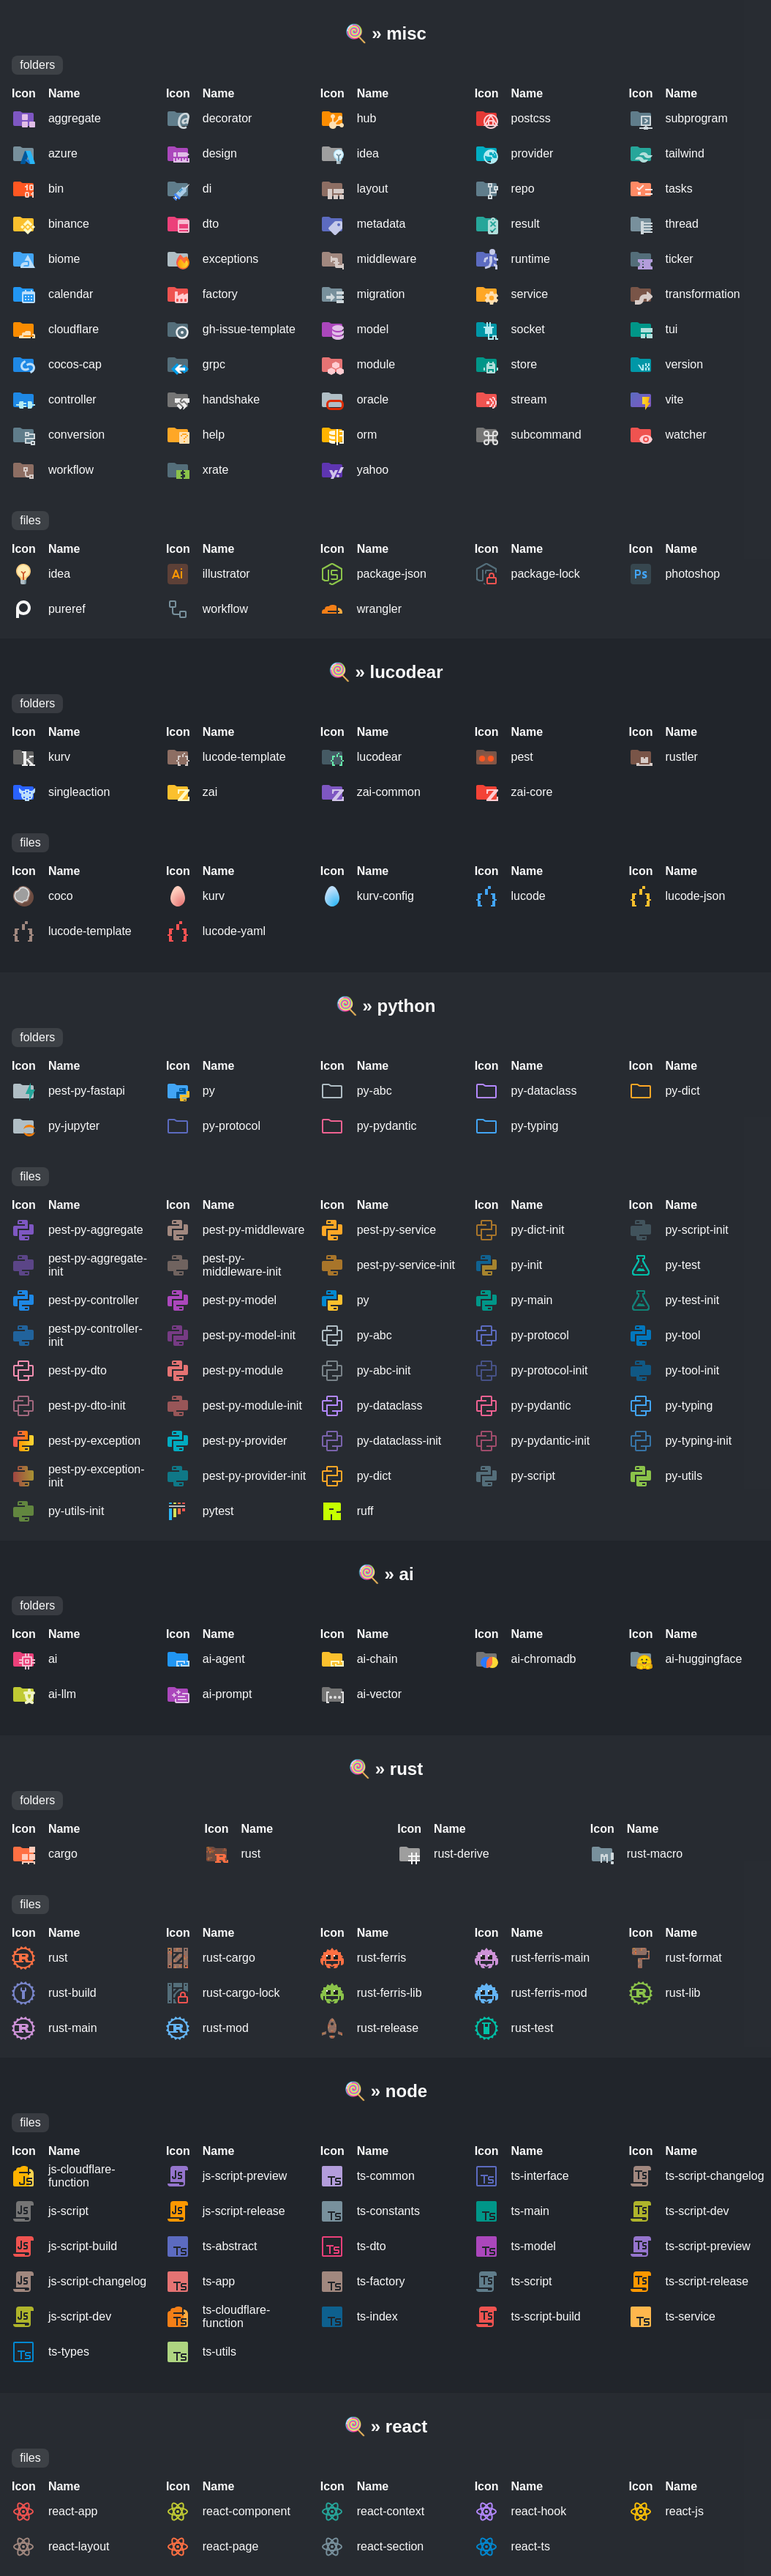
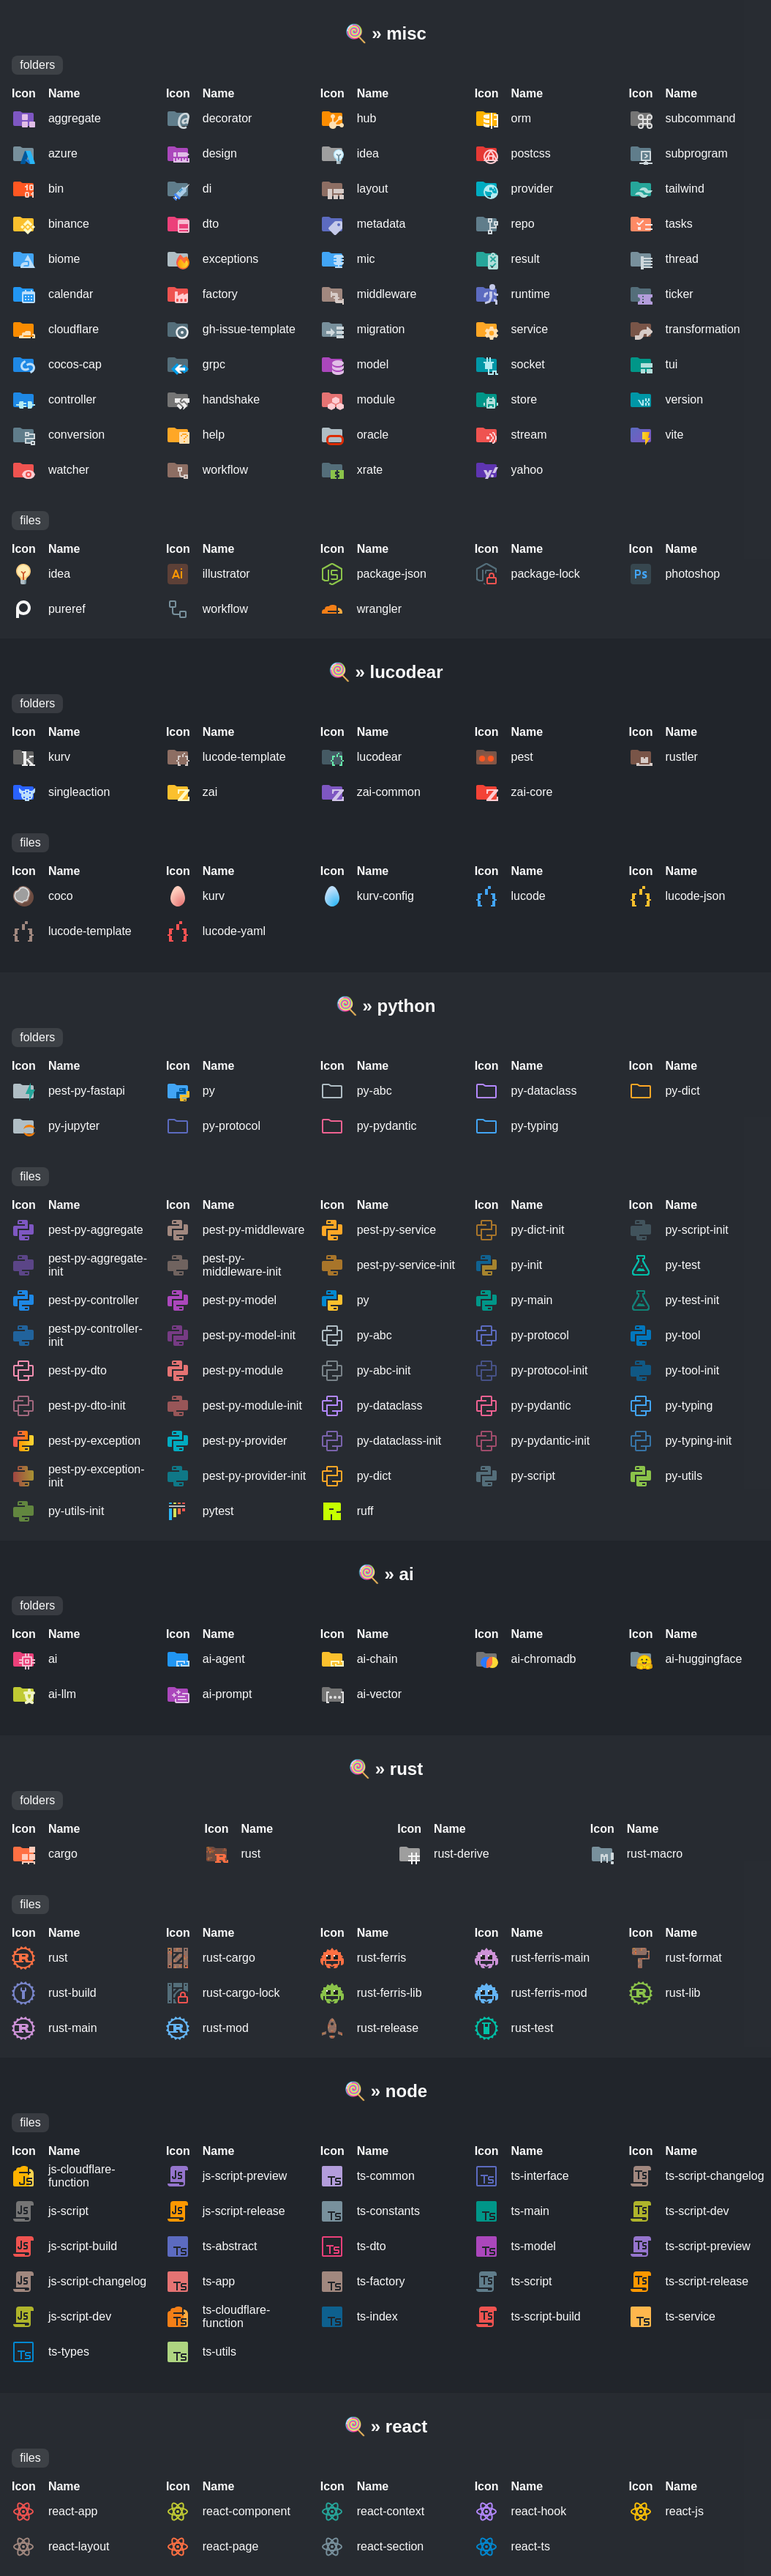
release: 🔖 v1.9.0

diff --git a/CHANGELOG.md b/CHANGELOG.md
@@ -3,10 +3,17 @@
  All notable changes to this project will be documented in this file. Dates are displayed in UTC.
 
  
+#### [v1.9.0](https://github.com/lucodear/lucodear-icons/compare/v1.8.0...v1.9.0) 
+
+> September 4, 2024 
+
+- feat: ✨ mic folder [`d4ea146c`](https://github.com/lucodear/lucodear-icons/commit/d4ea146c)
+ 
 #### [v1.8.0](https://github.com/lucodear/lucodear-icons/compare/v1.7.0...v1.8.0) 
 
 > September 1, 2024 
 
+- release: 🔖 v1.8.0 [`b182c71d`](https://github.com/lucodear/lucodear-icons/commit/b182c71d)
 - feat: ✨ pest python exceptions file [`98673484`](https://github.com/lucodear/lucodear-icons/commit/98673484)
  
 #### [v1.7.0](https://github.com/lucodear/lucodear-icons/compare/v1.6.2...v1.7.0) 
